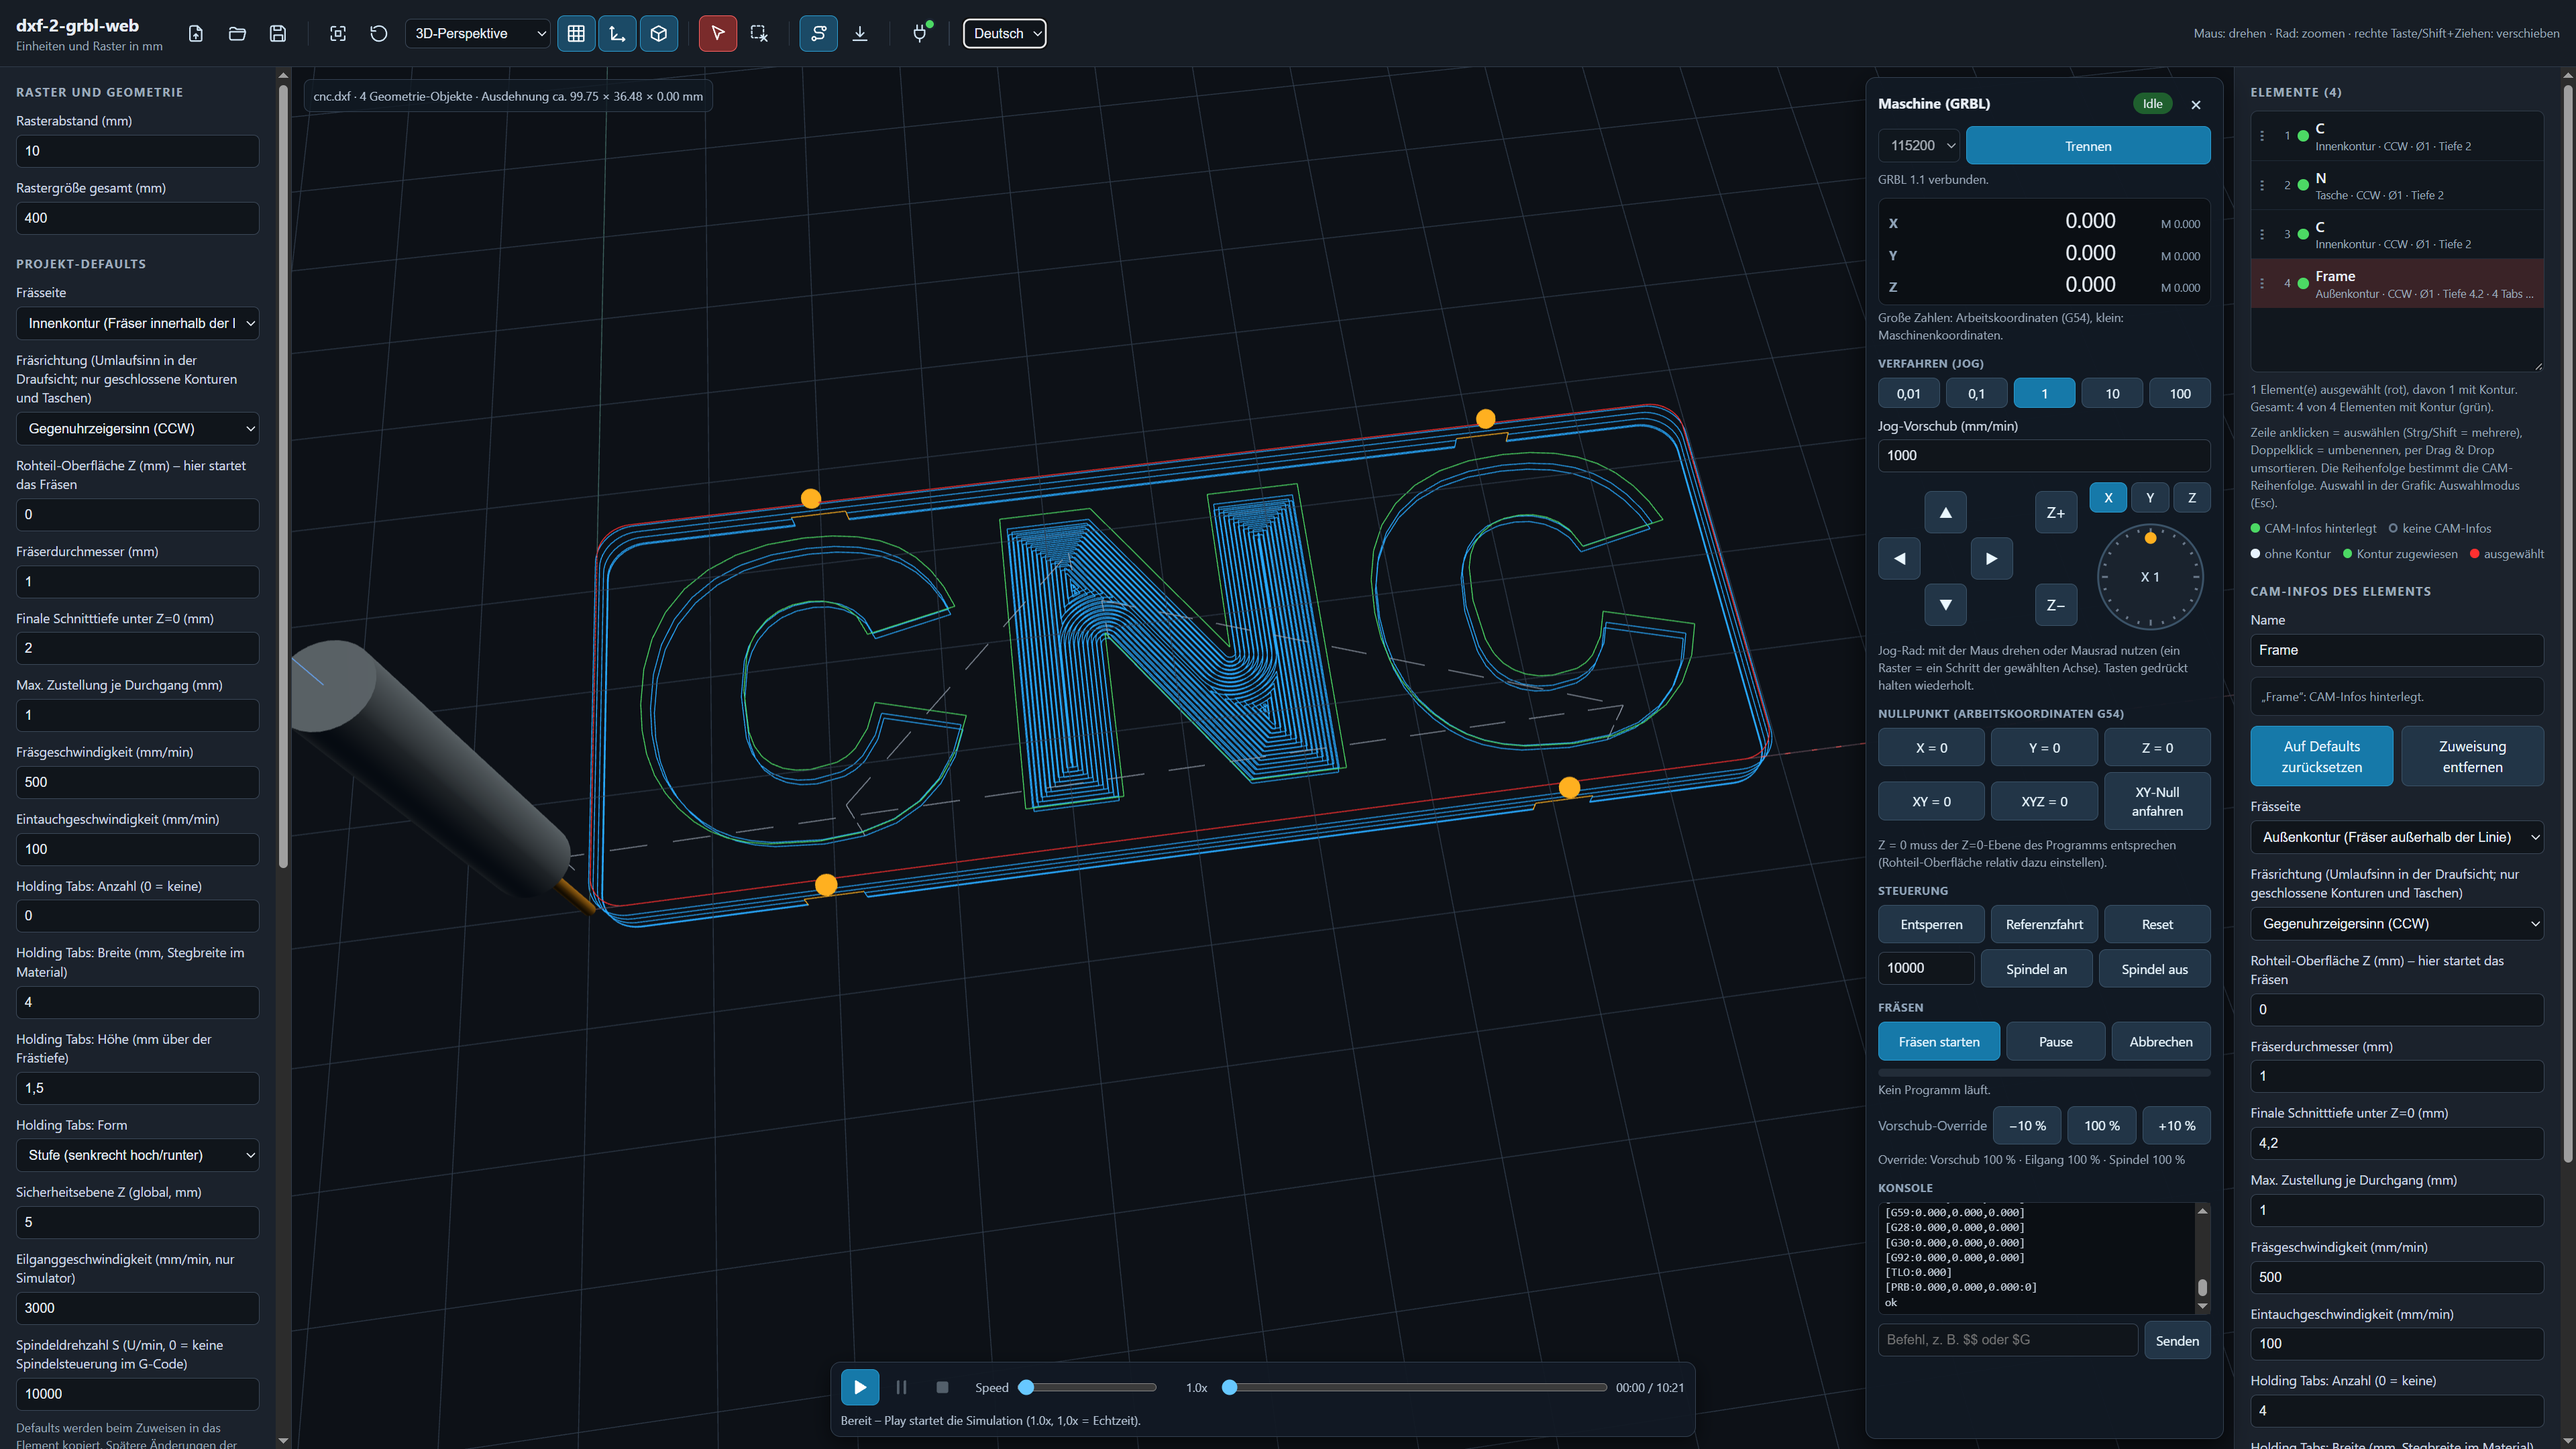
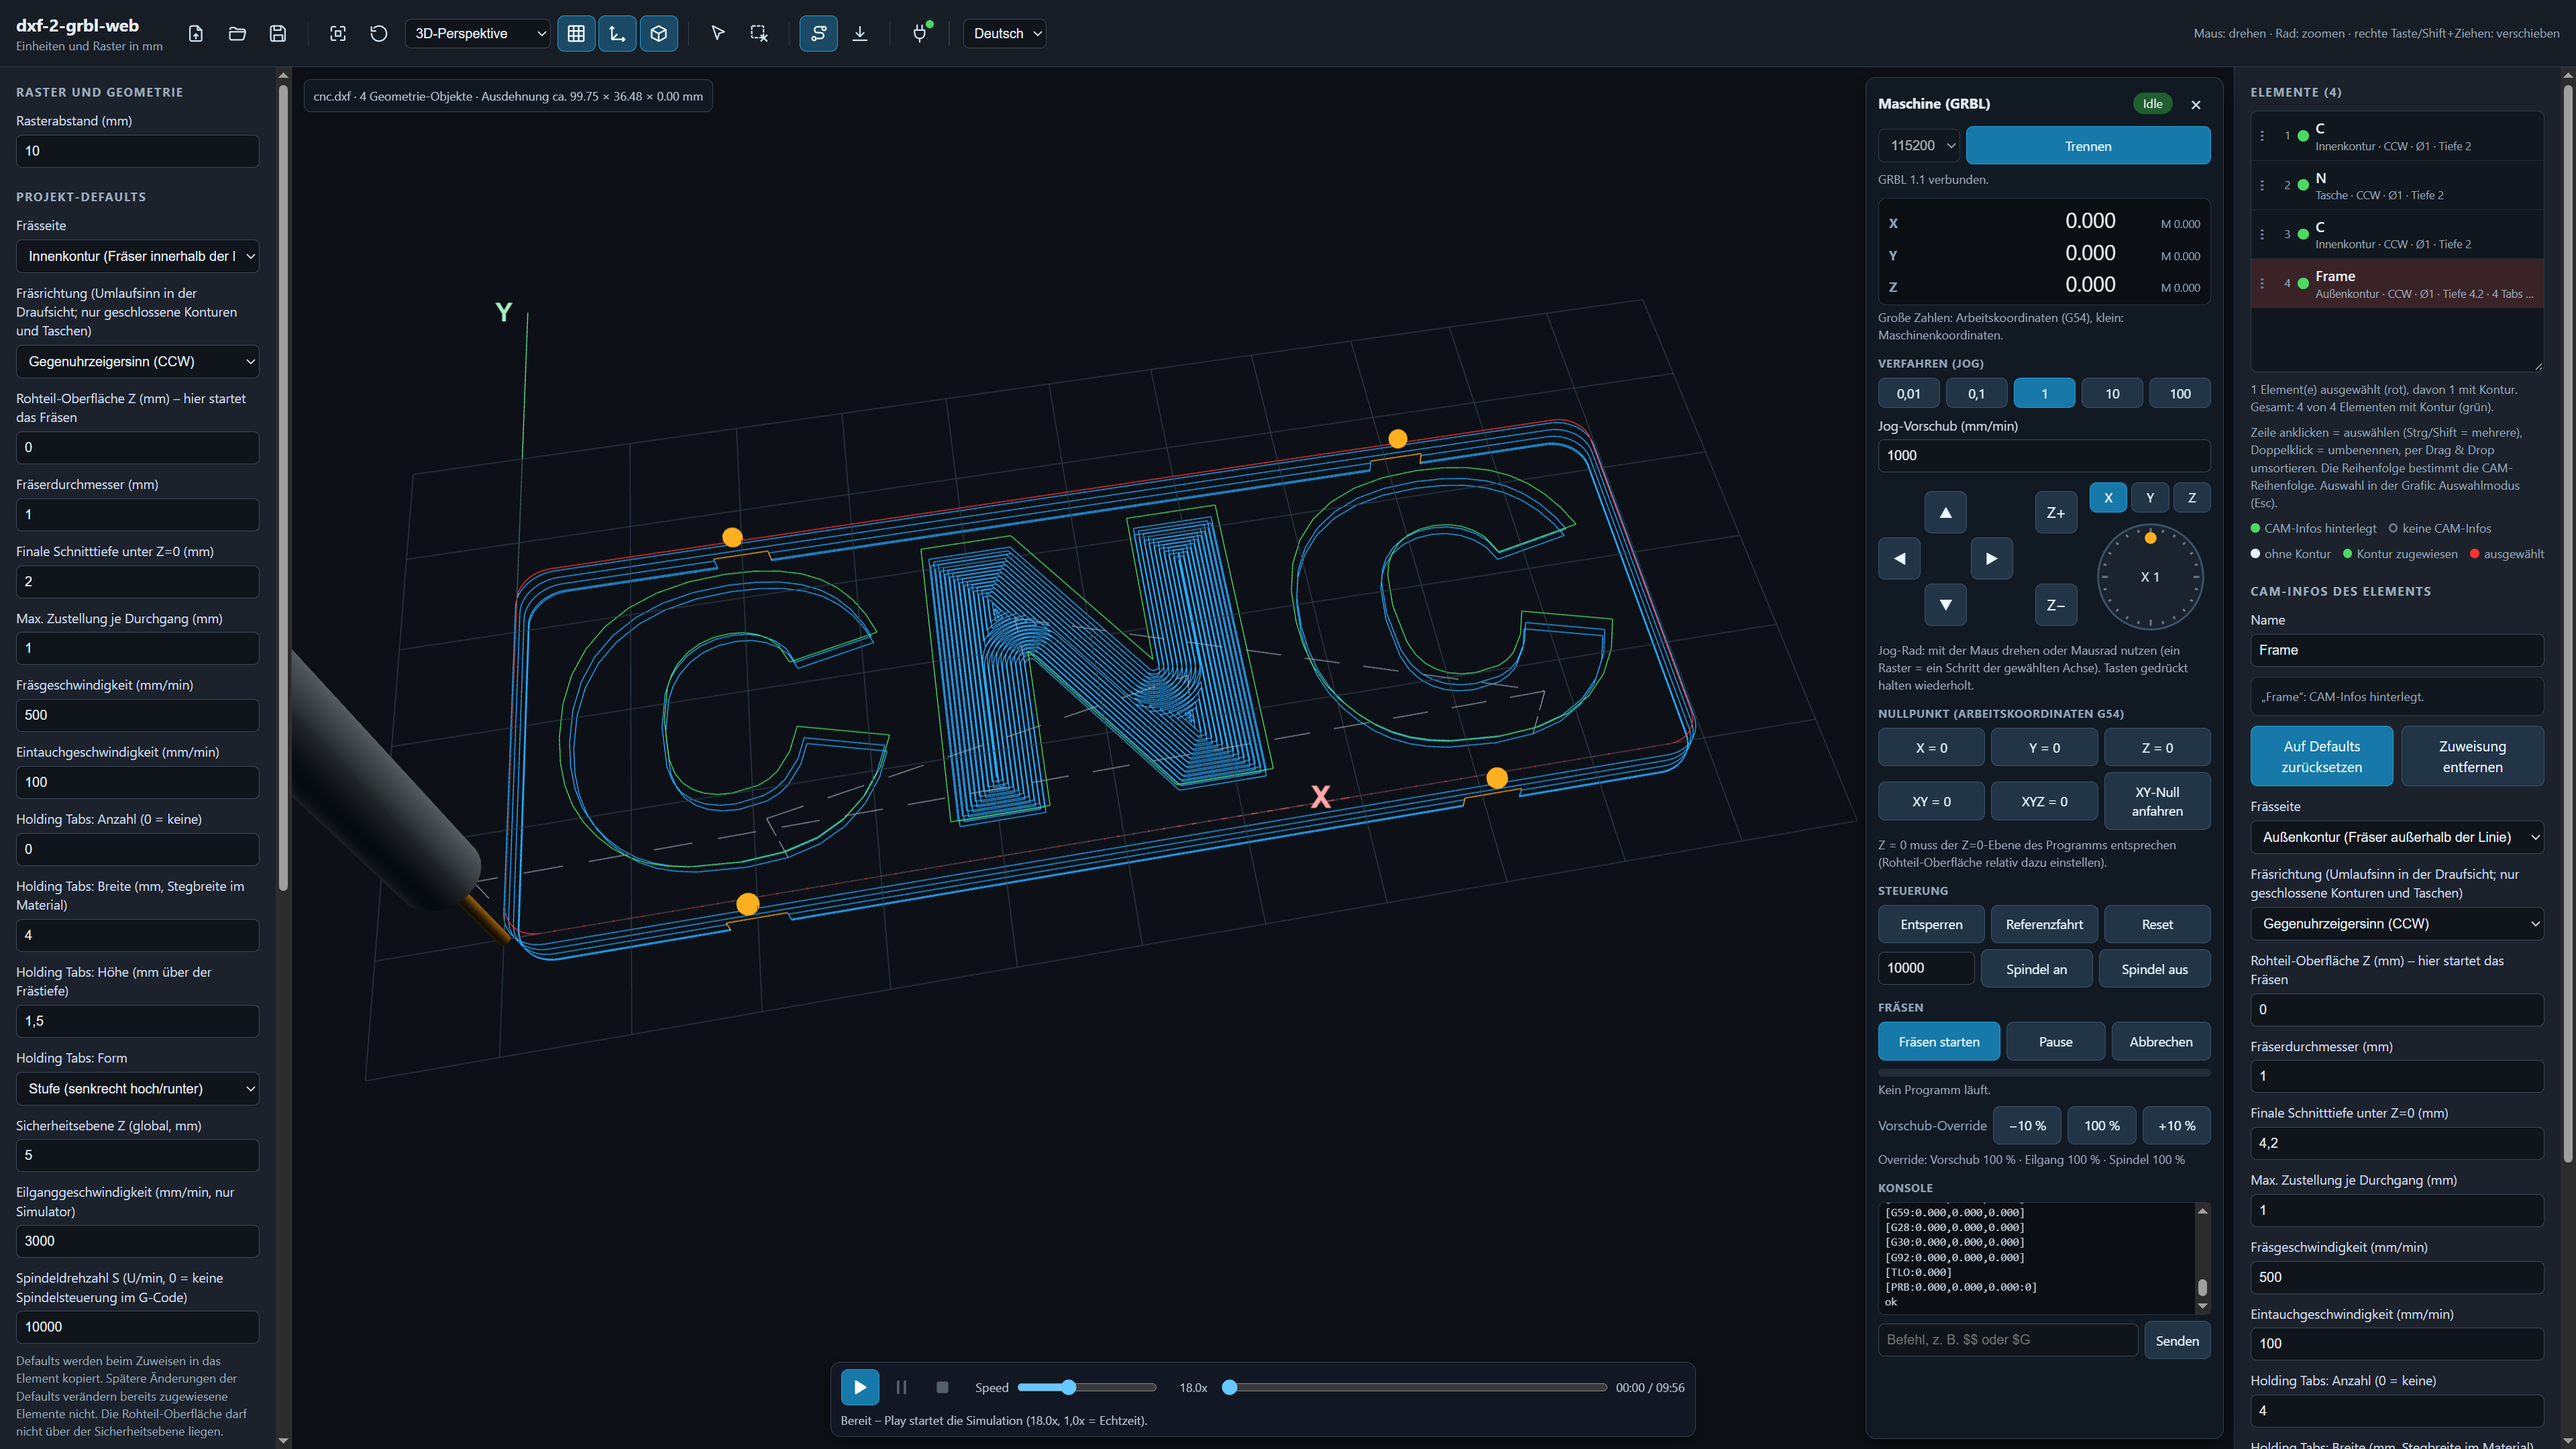
Pocket: order toolpaths branch by branch instead of level by level
When the inward offset of a pocket splits into several regions (e.g. the
two legs of an "N"), the loops were sorted level by level from the
inside out. The cutter therefore switched between the regions on every
level (R L R L ...), retracting to safe Z and rapiding across each time,
and repeated this on every Z level.

pocketLoops() now builds a tree from the offset loops (parent = nearest
loop of the next outer level) and emits them in post-order: each branch
is cut completely from the inside out, and only then the shared outer
rings. With more than two branches, the nearest one is chosen next.

Measured on the N contour (1 mm cutter, 40 % stepover), per Z level:
- retracts/jumps: 12 -> 1
- rapid travel: ~204 mm -> ~19 mm
Pocket with an island (40x40, island 10x10): 51 -> 4 jumps.

The same loops are cut (same count and total length); only their order
changes. The `linked` logic and the reversed order on every second Z
level in buildProgram() are unchanged.

diff --git a/dxf-2-grbl-web.html b/dxf-2-grbl-web.html
@@ -1386,10 +1386,32 @@ function pocketLoops(pts,r,step,islandCands){
  const levels=[first];
  for(let k=1;k<2000;k++){const q=off(-(r+k*step));if(!q.length){const h=off(-(r+(k-1)*step+step/2));if(h.length)levels.push(h);break;}levels.push(q);}
  const inRegion=p=>first.reduce((n,poly)=>n+(C.Clipper.PointInPolygon({X:Math.round(p.x*SC),Y:Math.round(p.y*SC)},poly)!==0?1:0),0)%2===1;   // gerade/ungerade: Inseln sind Löcher
+ // Jede Versatzbahn ist ein Knoten. Elternknoten = nächstgelegene Bahn der nächstäußeren Ebene.
+ // Nach innen teilt sich ein Gebiet in Äste (z.B. zwei Schenkel eines N), die erst weiter außen zusammenwachsen.
+ const nodes=levels.map((lv,k)=>lv.map(poly=>{const ring=poly.map(q=>({x:q.X/SC,y:q.Y/SC}));return {k,ring,closed:ring.concat([ring[0]]),children:[]};}));
+ const sample=(ring,n)=>{const m=Math.min(n,ring.length),out=[];for(let i=0;i<m;i++)out.push(ring[Math.floor(i*ring.length/m)]);return out;};
+ for(let k=1;k<nodes.length;k++)for(const nd of nodes[k]){
+  const sp=sample(nd.ring,12);let best=null,bd=Infinity;
+  for(const cand of nodes[k-1]){const d=sp.reduce((a,p)=>a+minDistToPoly(p,cand.closed),0)/sp.length;if(d<bd){bd=d;best=cand;}}
+  if(best)best.children.push(nd);
+ }
+ // Reihenfolge: Nachfolgeäste (innen) komplett von innen nach außen abarbeiten, erst dann den gemeinsamen äußeren Ring
+ // (Post-Order). So wechselt der Fräser pro Ast nur einmal, statt bei jeder Ebene zwischen den Ästen zu springen.
+ const order=[];let pos=null;
+ const dist=(p,q)=>Math.hypot(p.x-q.x,p.y-q.y);
+ const visit=nd=>{
+  let rest=nd.children.slice();
+  while(rest.length){   // nächsten Ast wählen: der, dessen Ring der aktuellen Position am nächsten liegt
+   let bi=0;if(pos&&rest.length>1){let bd=Infinity;rest.forEach((c,i)=>{const d=minDistToPoly(pos,c.closed);if(d<bd){bd=d;bi=i;}});}
+   visit(rest.splice(bi,1)[0]);
+  }
+  order.push(nd);pos=nd.ring[0];
+ };
+ let roots=nodes[0].slice();
+ while(roots.length){let bi=0;if(pos&&roots.length>1){let bd=Infinity;roots.forEach((c,i)=>{const d=minDistToPoly(pos,c.closed);if(d<bd){bd=d;bi=i;}});}visit(roots.splice(bi,1)[0]);}
  const loops=[];let prevEnd=null;
- for(const lv of levels.slice().reverse())for(const poly of lv){      // von innen nach außen
-  let ring=poly.map(q=>({x:q.X/SC,y:q.Y/SC}));
-  let linked=false;
+ for(const nd of order){
+  let ring=nd.ring.slice();let linked=false;
   if(prevEnd){let bi=0,bd=Infinity;ring.forEach((p,i)=>{const d=Math.hypot(p.x-prevEnd.x,p.y-prevEnd.y);if(d<bd){bd=d;bi=i;}});ring=ring.slice(bi).concat(ring.slice(0,bi));
    linked=bd<=2*step+1e-6&&[.25,.5,.75].every(t=>inRegion({x:prevEnd.x+(ring[0].x-prevEnd.x)*t,y:prevEnd.y+(ring[0].y-prevEnd.y)*t}));}
   ring.push({x:ring[0].x,y:ring[0].y});loops.push({pts:ring,linked});prevEnd=ring.at(-1);
